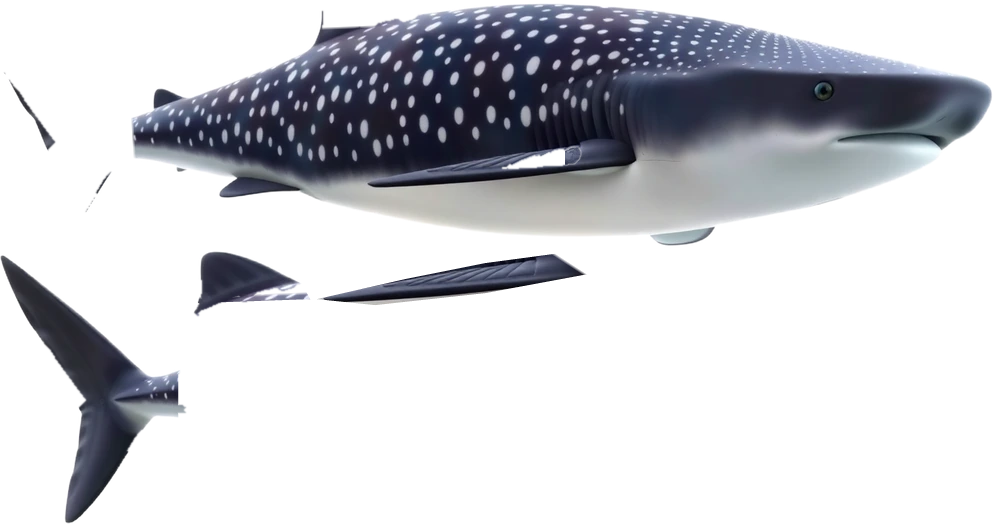
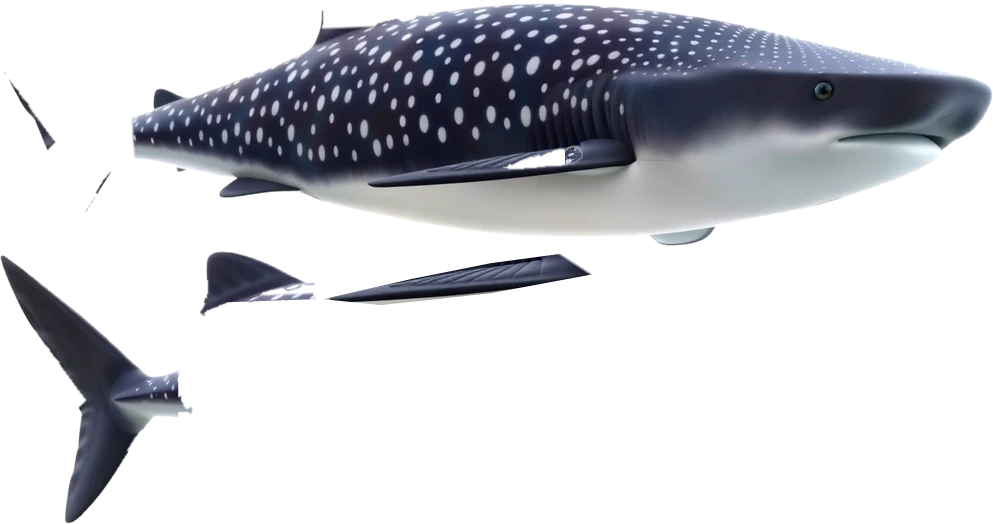
Painted adult grey reef shark (key adult_shark: calm, closed mouth, adult proportions; part rig baked too), loaded by the title screen and shown in the reef book

Changed region(s): [[0.1873, 0.4885, 0.5932, 0.6107], [0.5619, 0.2748, 0.5932, 0.3053], [0.2497, 0.4885, 0.281, 0.5191]]

diff --git a/scenes/IntroScene.js b/scenes/IntroScene.js
@@ -30,7 +30,7 @@ import { ARCH_ART } from '../game/level/SeaArchLayer.js';
 import { RESCUE_ART } from '../game/RescueLayer.js';
 import { BLOOM_ART } from '../game/level/BloomLayer.js';
 import { CONTROL_ART } from '../game/ui/ControlSwitcher.js';
-import { COLONY_ART } from '../game/level/RhythmLayer.js';
+import { COLONY_ART, SHARK_ART } from '../game/level/RhythmLayer.js';
 import { RAFT_ART } from '../game/level/RaftLayer.js';
 import { MEADOW_ART } from '../game/level/MeadowLayer.js';
 import { WHALE_SHARK_ART } from '../game/level/WhaleSharkLayer.js';
@@ -127,7 +127,7 @@ export default class IntroScene extends Phaser.Scene {
         if (!this.textures.exists('hull_bottom')) this.load.image('hull_bottom', 'img/props/hull_bottom.webp');
         for (const [key, file] of Object.entries(SHIP_FILES.images)) if (!this.textures.exists(key)) this.load.image(key, file);
         if (!this.cache.json.exists(SHIP_FILES.json[0])) this.load.json(SHIP_FILES.json[0], SHIP_FILES.json[1]);
-        for (const [key, file] of Object.entries({ ...DOCKS_ART, ...ARCH_ART, ...RESCUE_ART, ...BLOOM_ART, ...RAFT_ART, ...MEADOW_ART, ...WHALE_SHARK_ART, ...VENT_ART, ...CONTAINER_ART, ...DOLPHIN_ART, ...OCTOPUS_ART, ...SANDBAR_ART, ...CONTROL_ART, ...COLONY_ART })) if (!this.textures.exists(key)) this.load.image(key, file);
+        for (const [key, file] of Object.entries({ ...DOCKS_ART, ...ARCH_ART, ...RESCUE_ART, ...BLOOM_ART, ...RAFT_ART, ...MEADOW_ART, ...WHALE_SHARK_ART, ...VENT_ART, ...CONTAINER_ART, ...DOLPHIN_ART, ...OCTOPUS_ART, ...SANDBAR_ART, ...CONTROL_ART, ...COLONY_ART, ...SHARK_ART })) if (!this.textures.exists(key)) this.load.image(key, file);
         if (!this.textures.exists(MANTA_ART.key)) this.load.image(MANTA_ART.key, MANTA_ART.file);
         if (!this.textures.exists('sand_ripples')) this.load.image('sand_ripples', 'img/fx/sand_ripples.webp');
         if (!this.textures.exists(SURF_ART.line.key)) this.load.image(SURF_ART.line.key, SURF_ART.line.file);

diff --git a/game/reefbook.js b/game/reefbook.js
@@ -46,7 +46,7 @@ export const ENTRIES = [
     { id: 'whale_shark', kind: 'creature', image: 'whale_shark',
         name: { de: 'Walhai', en: 'Whale shark' },
         fact: { de: 'Der Walhai ist der größte Fisch der Welt, frisst aber nur winziges Plankton.', en: 'The whale shark is the biggest fish in the world, yet it only eats tiny plankton.' } },
-    { id: 'adult_shark', kind: 'creature', image: 'player_shark',
+    { id: 'adult_shark', kind: 'creature', image: 'adult_shark',
         name: { de: 'Großer Hai', en: 'Adult shark' },
         fact: { de: 'So groß wird Sharky einmal. Erwachsene Haie ziehen ruhig ihre Bahnen und sind viel scheuer, als man denkt.', en: 'This is how big Sharky will be one day. Adult sharks cruise calmly and are much shyer than people think.' } },
     { id: 'manta', kind: 'creature', image: 'manta',

diff --git a/game/level/RhythmLayer.js b/game/level/RhythmLayer.js
@@ -18,6 +18,8 @@ export const RHYTHM_LOOK = {
 /** The painted big corals (loaded by the title screen): a table, a brain, a fan and a staghorn thicket. While one is missing, one of the reef's own corals stands in, grown huge. */
 export const COLONY_KINDS = ['coral_table', 'coral_brain', 'coral_fan', 'coral_staghorn'];
 export const COLONY_ART = Object.fromEntries(COLONY_KINDS.map(k => [k, `img/coral/${k}.webp`]));
+/** The painted adult grey reef shark (part cards in img/parts too; loaded by the title screen). */
+export const SHARK_ART = { adult_shark: 'img/adult_shark.webp' };
 
 const hash = (i, k) => { const v = Math.sin(i * 127.1 + k * 311.7) * 43758.5453; return v - Math.floor(v); };
 const pick = (r, h) => r[0] + (r[1] - r[0]) * h;
